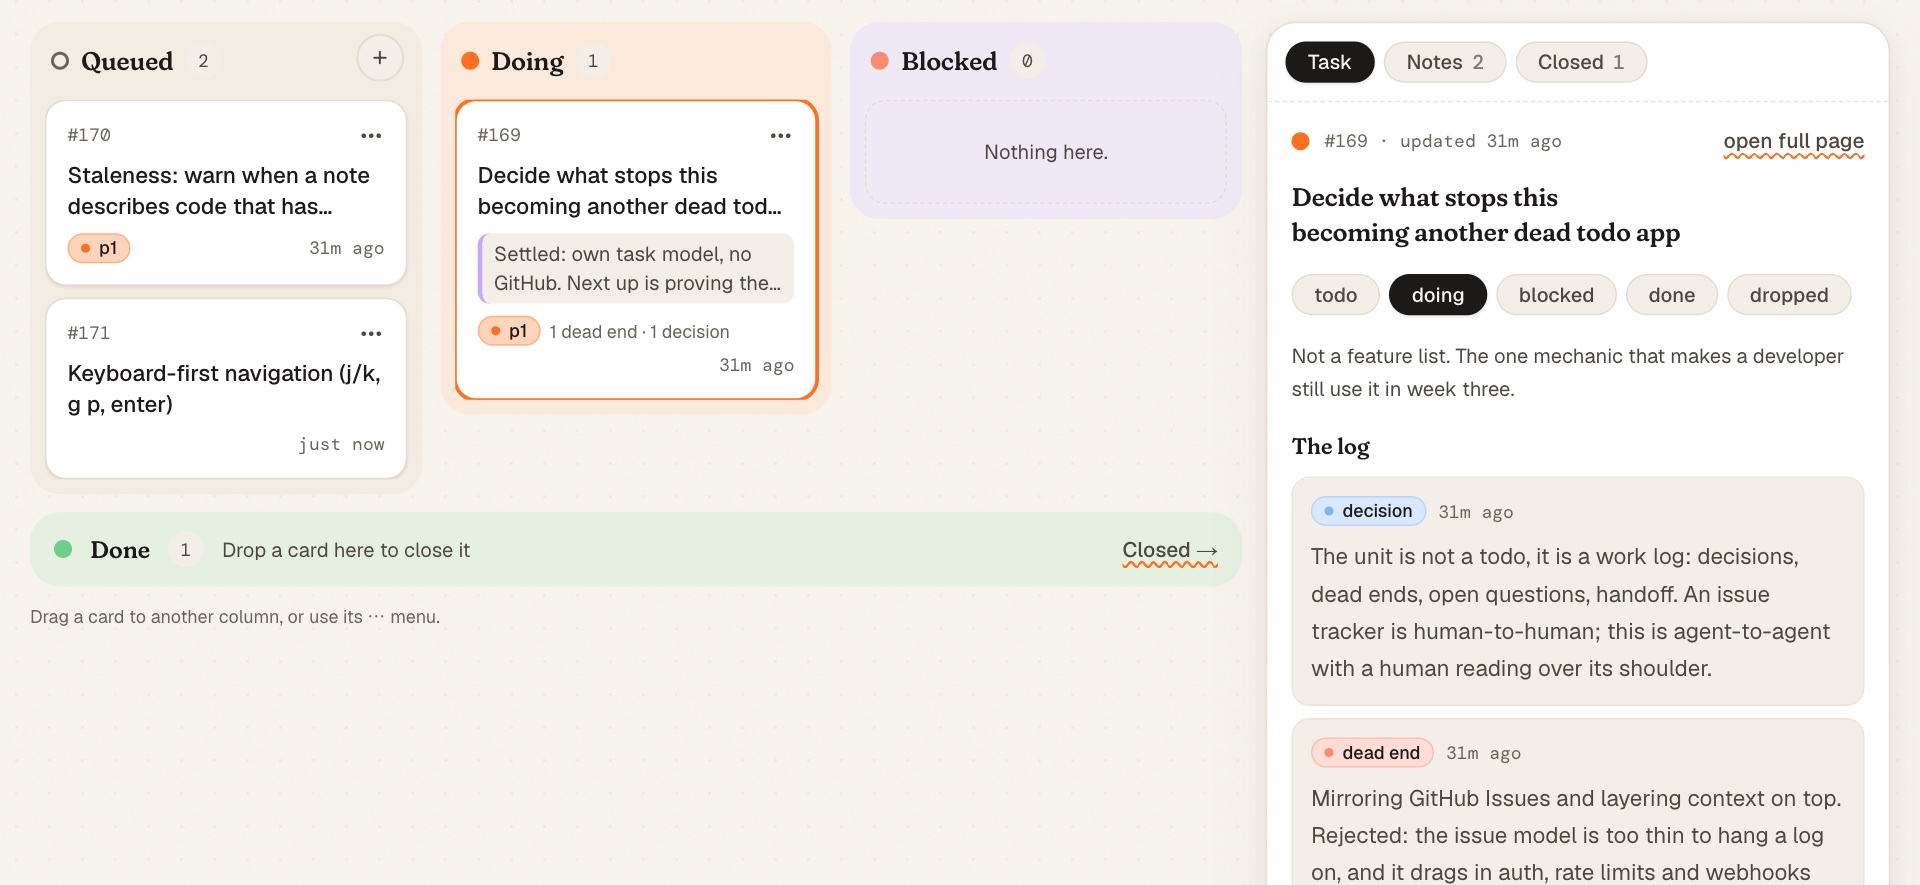
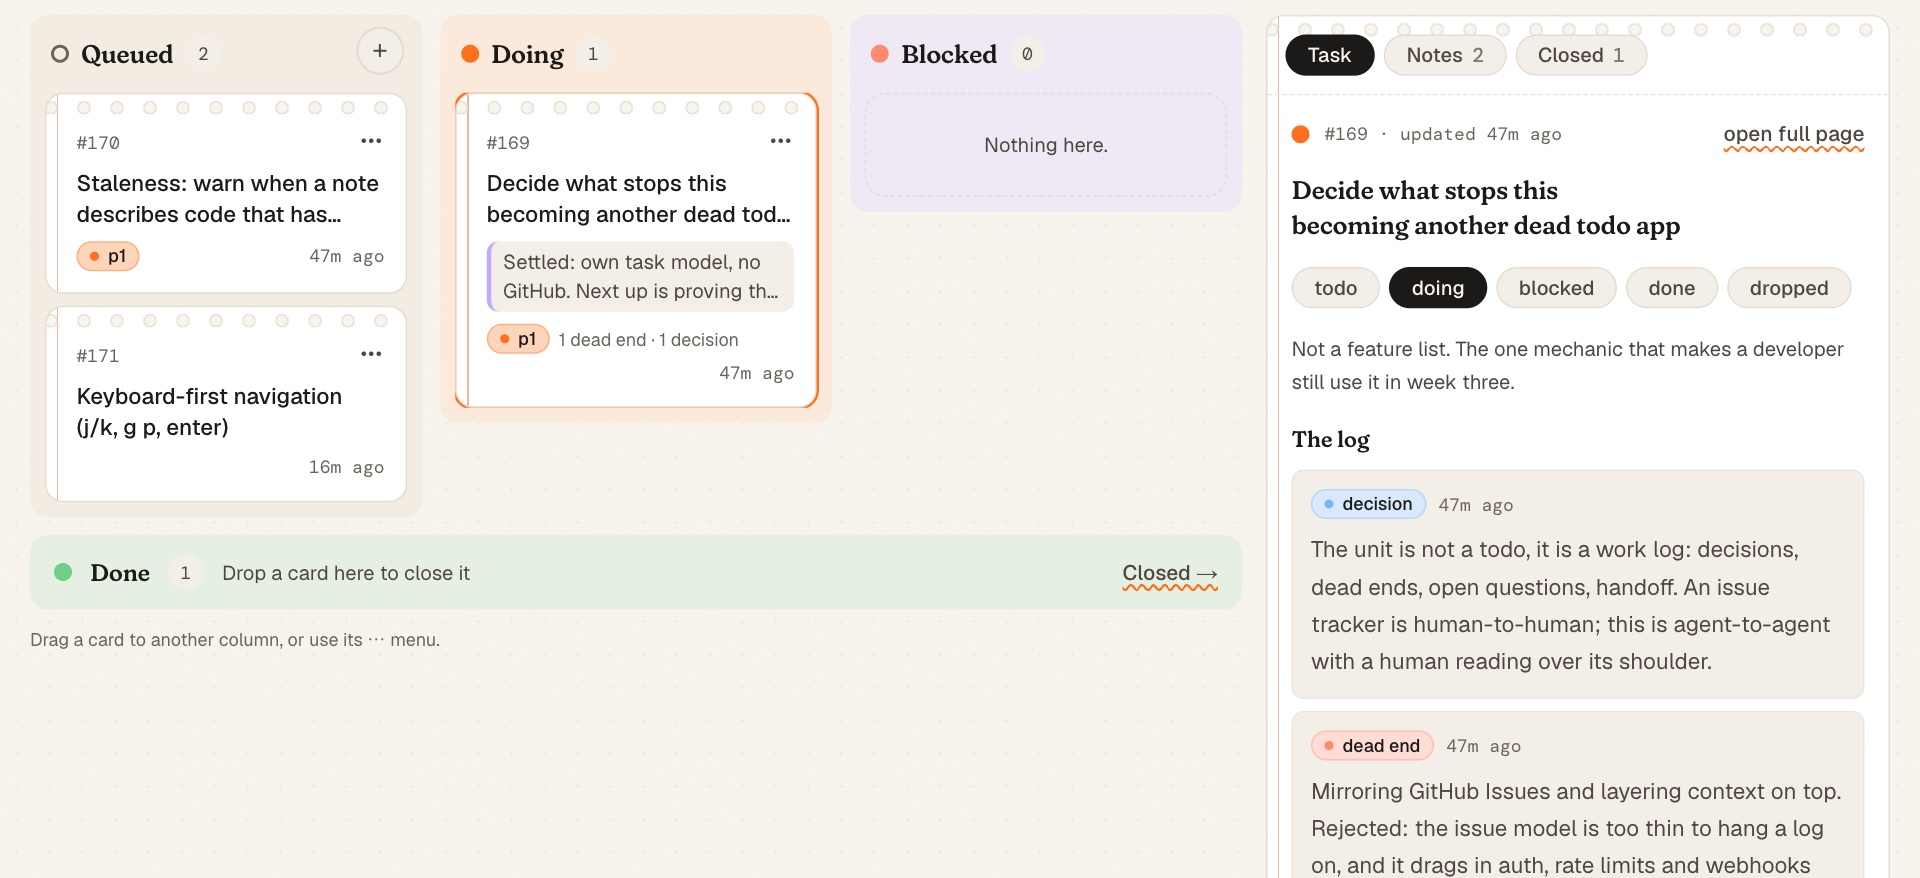
feat(home): sticky notes taped to the desk; the panel log as lines
The landing's pinned notes are pastel sticky notes held by a strip of tape, in the kind's own tone, instead of white cards. The board screenshot is retaken with the notebook cards, again cropped so no local path is in it. The board panel's log drops its boxes for ruled lines, matching the task page.

diff --git a/app/features/landing.tsx b/app/features/landing.tsx
@@ -97,13 +97,17 @@ function Stage({ t }: { t: T }) {
   );
 }
 
+const NOTE_TONE = { dead_end: "tone-apricot", handoff: "tone-lilac", question: "tone-butter" } as const;
+
+/** A sticky note taped to the desk: a pastel square, a strip of tape across
+ *  its top, the kind in a chip and one line in the reader's language. */
 function PinnedNote({
   kind,
   text,
   t,
   className,
 }: {
-  kind: "dead_end" | "handoff" | "question";
+  kind: keyof typeof NOTE_TONE;
   text: string;
   t: T;
   className: string;
@@ -111,10 +115,11 @@ function PinnedNote({
   return (
     <div
       aria-hidden="true"
-      className={`absolute z-10 hidden w-[240px] flex-col items-start gap-2 rounded-[14px] border border-line bg-card p-3.5 shadow-[var(--shadow-pop)] md:flex ${className}`}
+      className={`tone-panel ${NOTE_TONE[kind]} absolute z-10 hidden w-[220px] flex-col items-start gap-2 !rounded-[4px] !p-4 !pt-5 md:flex ${className}`}
     >
+      <span className="tape" />
       <Chip color={KIND_COLOR[kind]}>{kindLabel(t, kind)}</Chip>
-      <p className="text-[13.5px] leading-snug text-ink">{text}</p>
+      <p className="text-[14px] leading-snug text-ink">{text}</p>
     </div>
   );
 }

diff --git a/app/globals.css b/app/globals.css
@@ -479,6 +479,21 @@ summary:focus-visible,
   overflow: hidden;
 }
 
+/* A strip of masking tape holding a note down: translucent, a little
+   crooked, its ends cut square. Decoration only. */
+.tape {
+  position: absolute;
+  top: -9px;
+  left: 50%;
+  width: 64px;
+  height: 18px;
+  translate: -50% 0;
+  rotate: -4deg;
+  background: color-mix(in srgb, var(--tone-sand) 75%, transparent);
+  border-left: 1px dashed color-mix(in srgb, var(--line) 80%, transparent);
+  border-right: 1px dashed color-mix(in srgb, var(--line) 80%, transparent);
+}
+
 /* Graph paper, for the back of a collage. */
 .dot-grid {
   background-image: radial-gradient(var(--line) 1.2px, transparent 1.3px);

diff --git a/app/p/[slug]/task-panel.tsx b/app/p/[slug]/task-panel.tsx
@@ -114,9 +114,9 @@ export async function TaskPanel({ task, slug, t }: { task: Task; slug: string; t
             {t("earlierEntries", { n: earlier })}
           </Link>
         )}
-        <ol className="space-y-2">
+        <ol className="divide-y divide-[var(--rule)]">
           {log.rows.map((entry) => (
-            <li key={entry.id} className="sticker-flat min-w-0 p-3">
+            <li key={entry.id} className="min-w-0 py-3 first:pt-1">
               <div className="flex flex-wrap items-center gap-2">
                 <Chip color={KIND_COLOR[entry.kind]} title={kindHint(t, entry.kind)}>
                   {kindLabel(t, entry.kind)}
